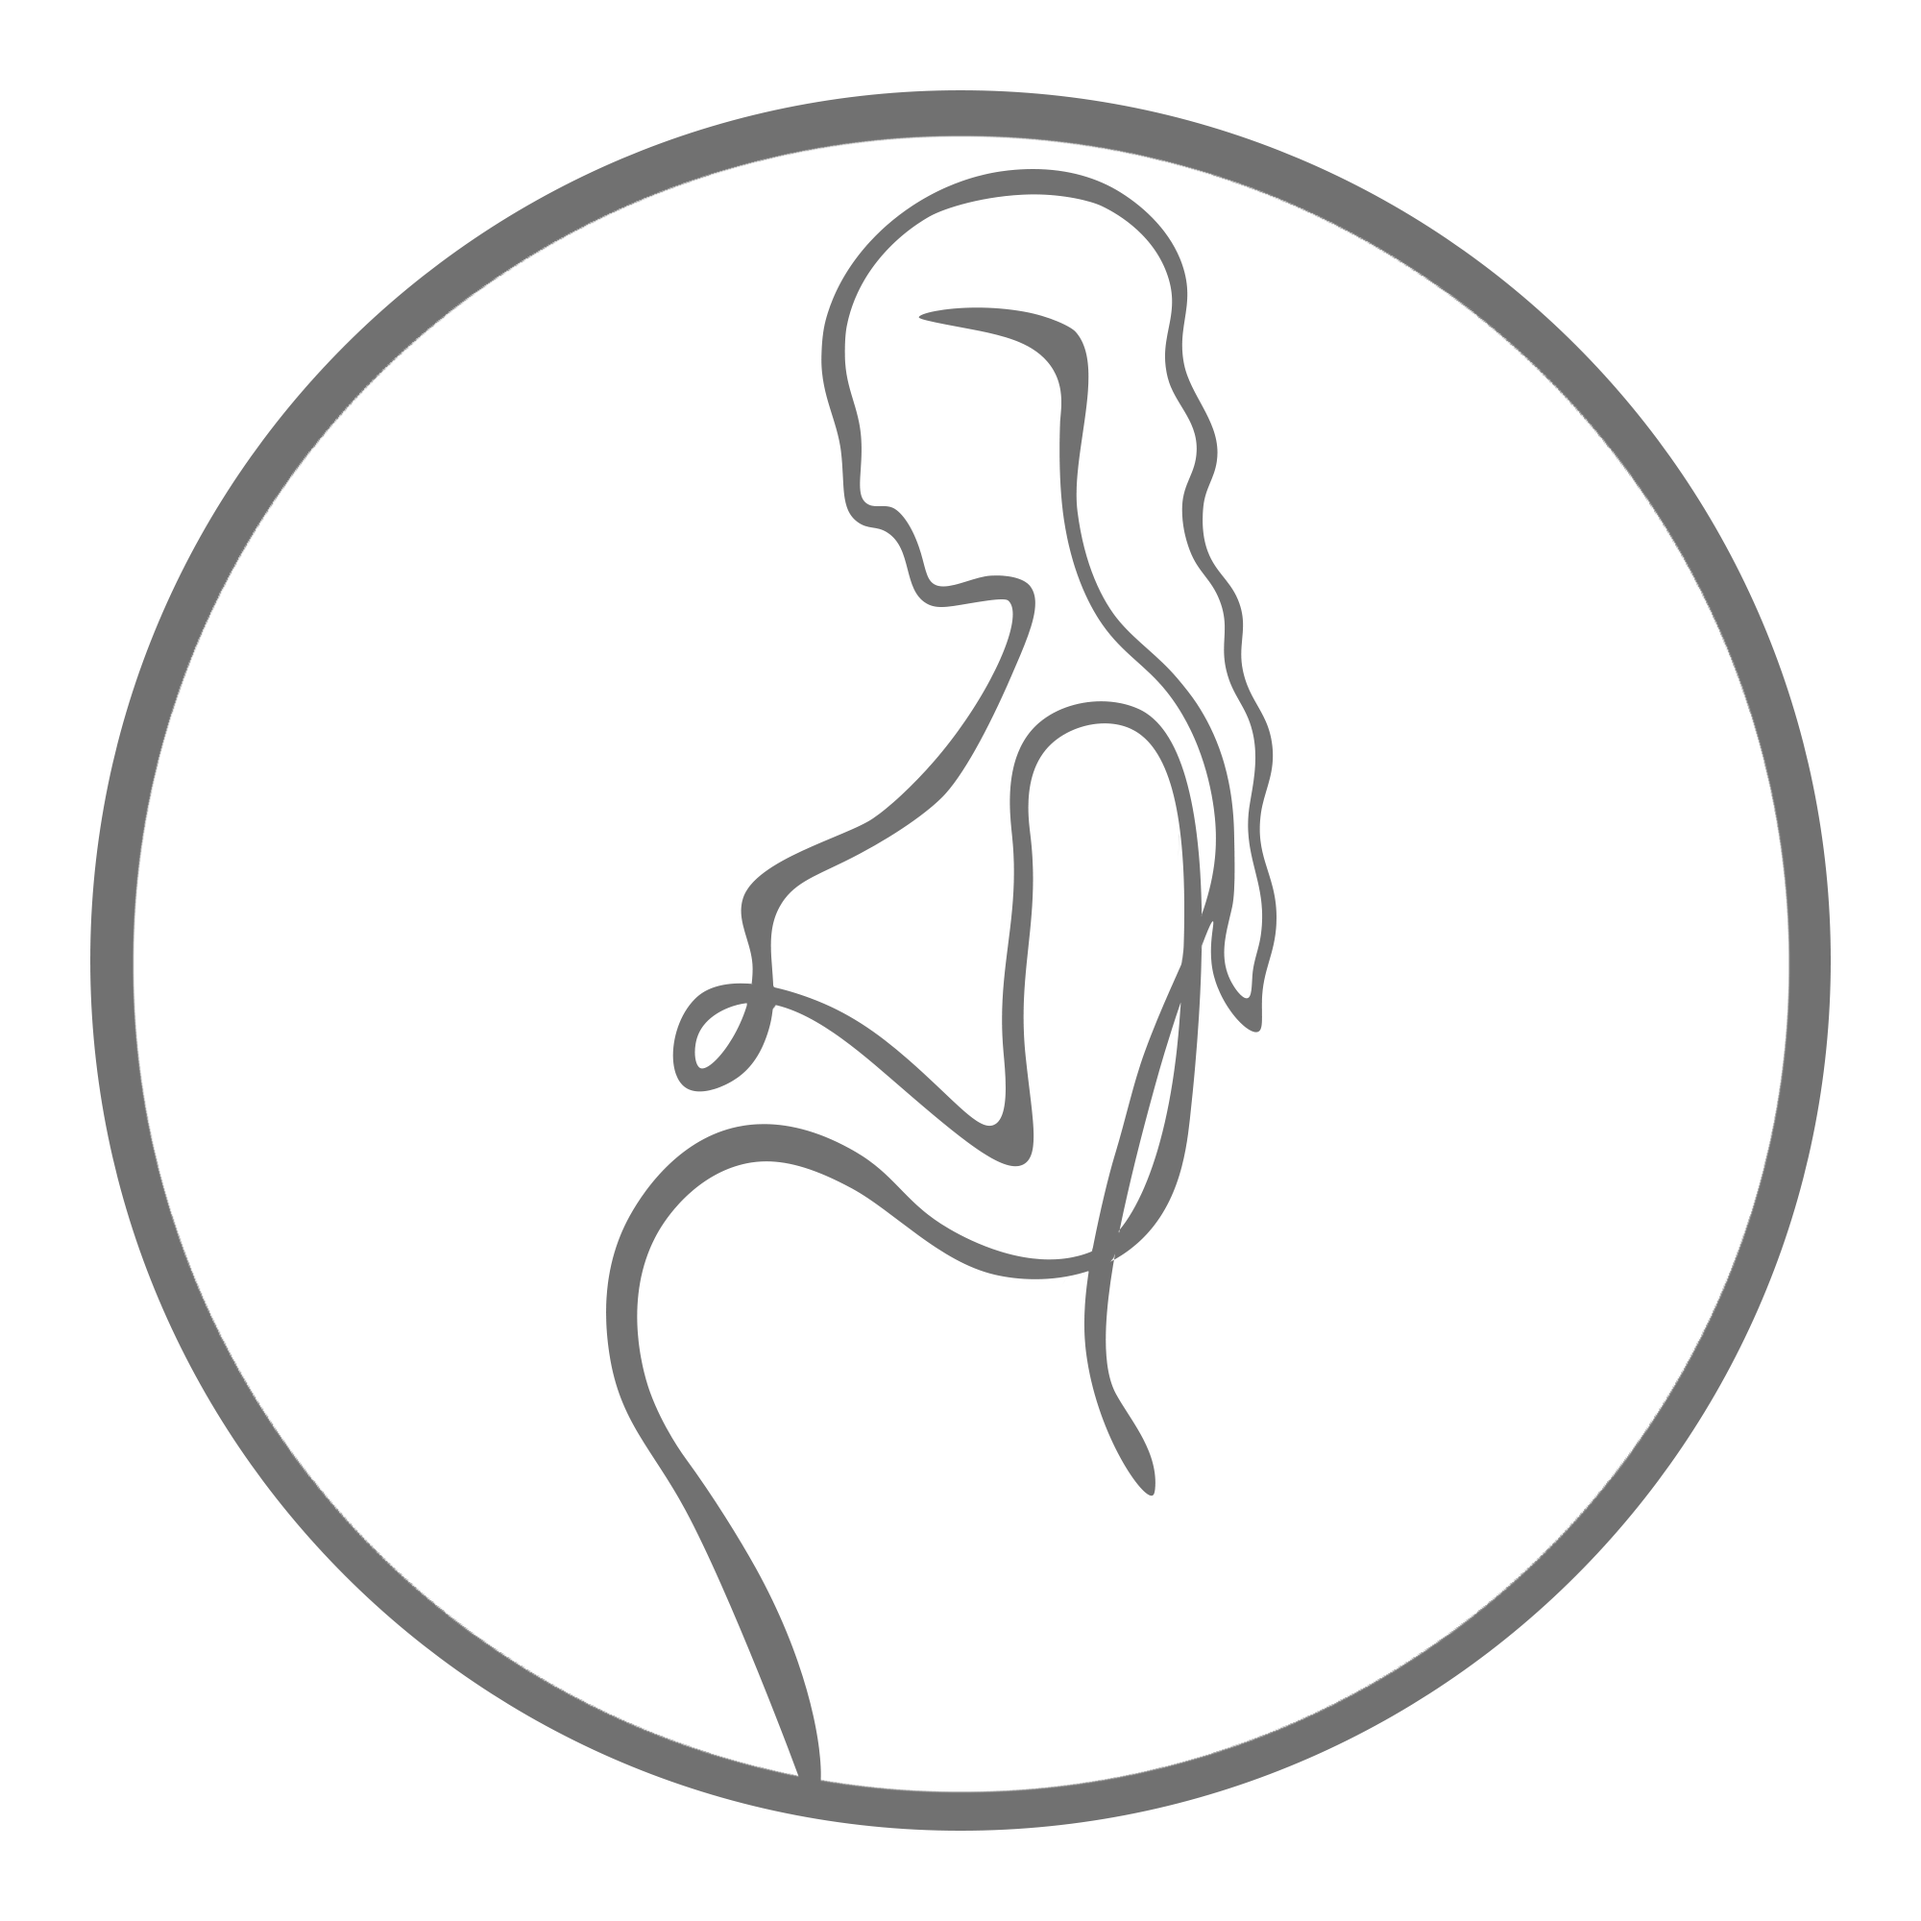
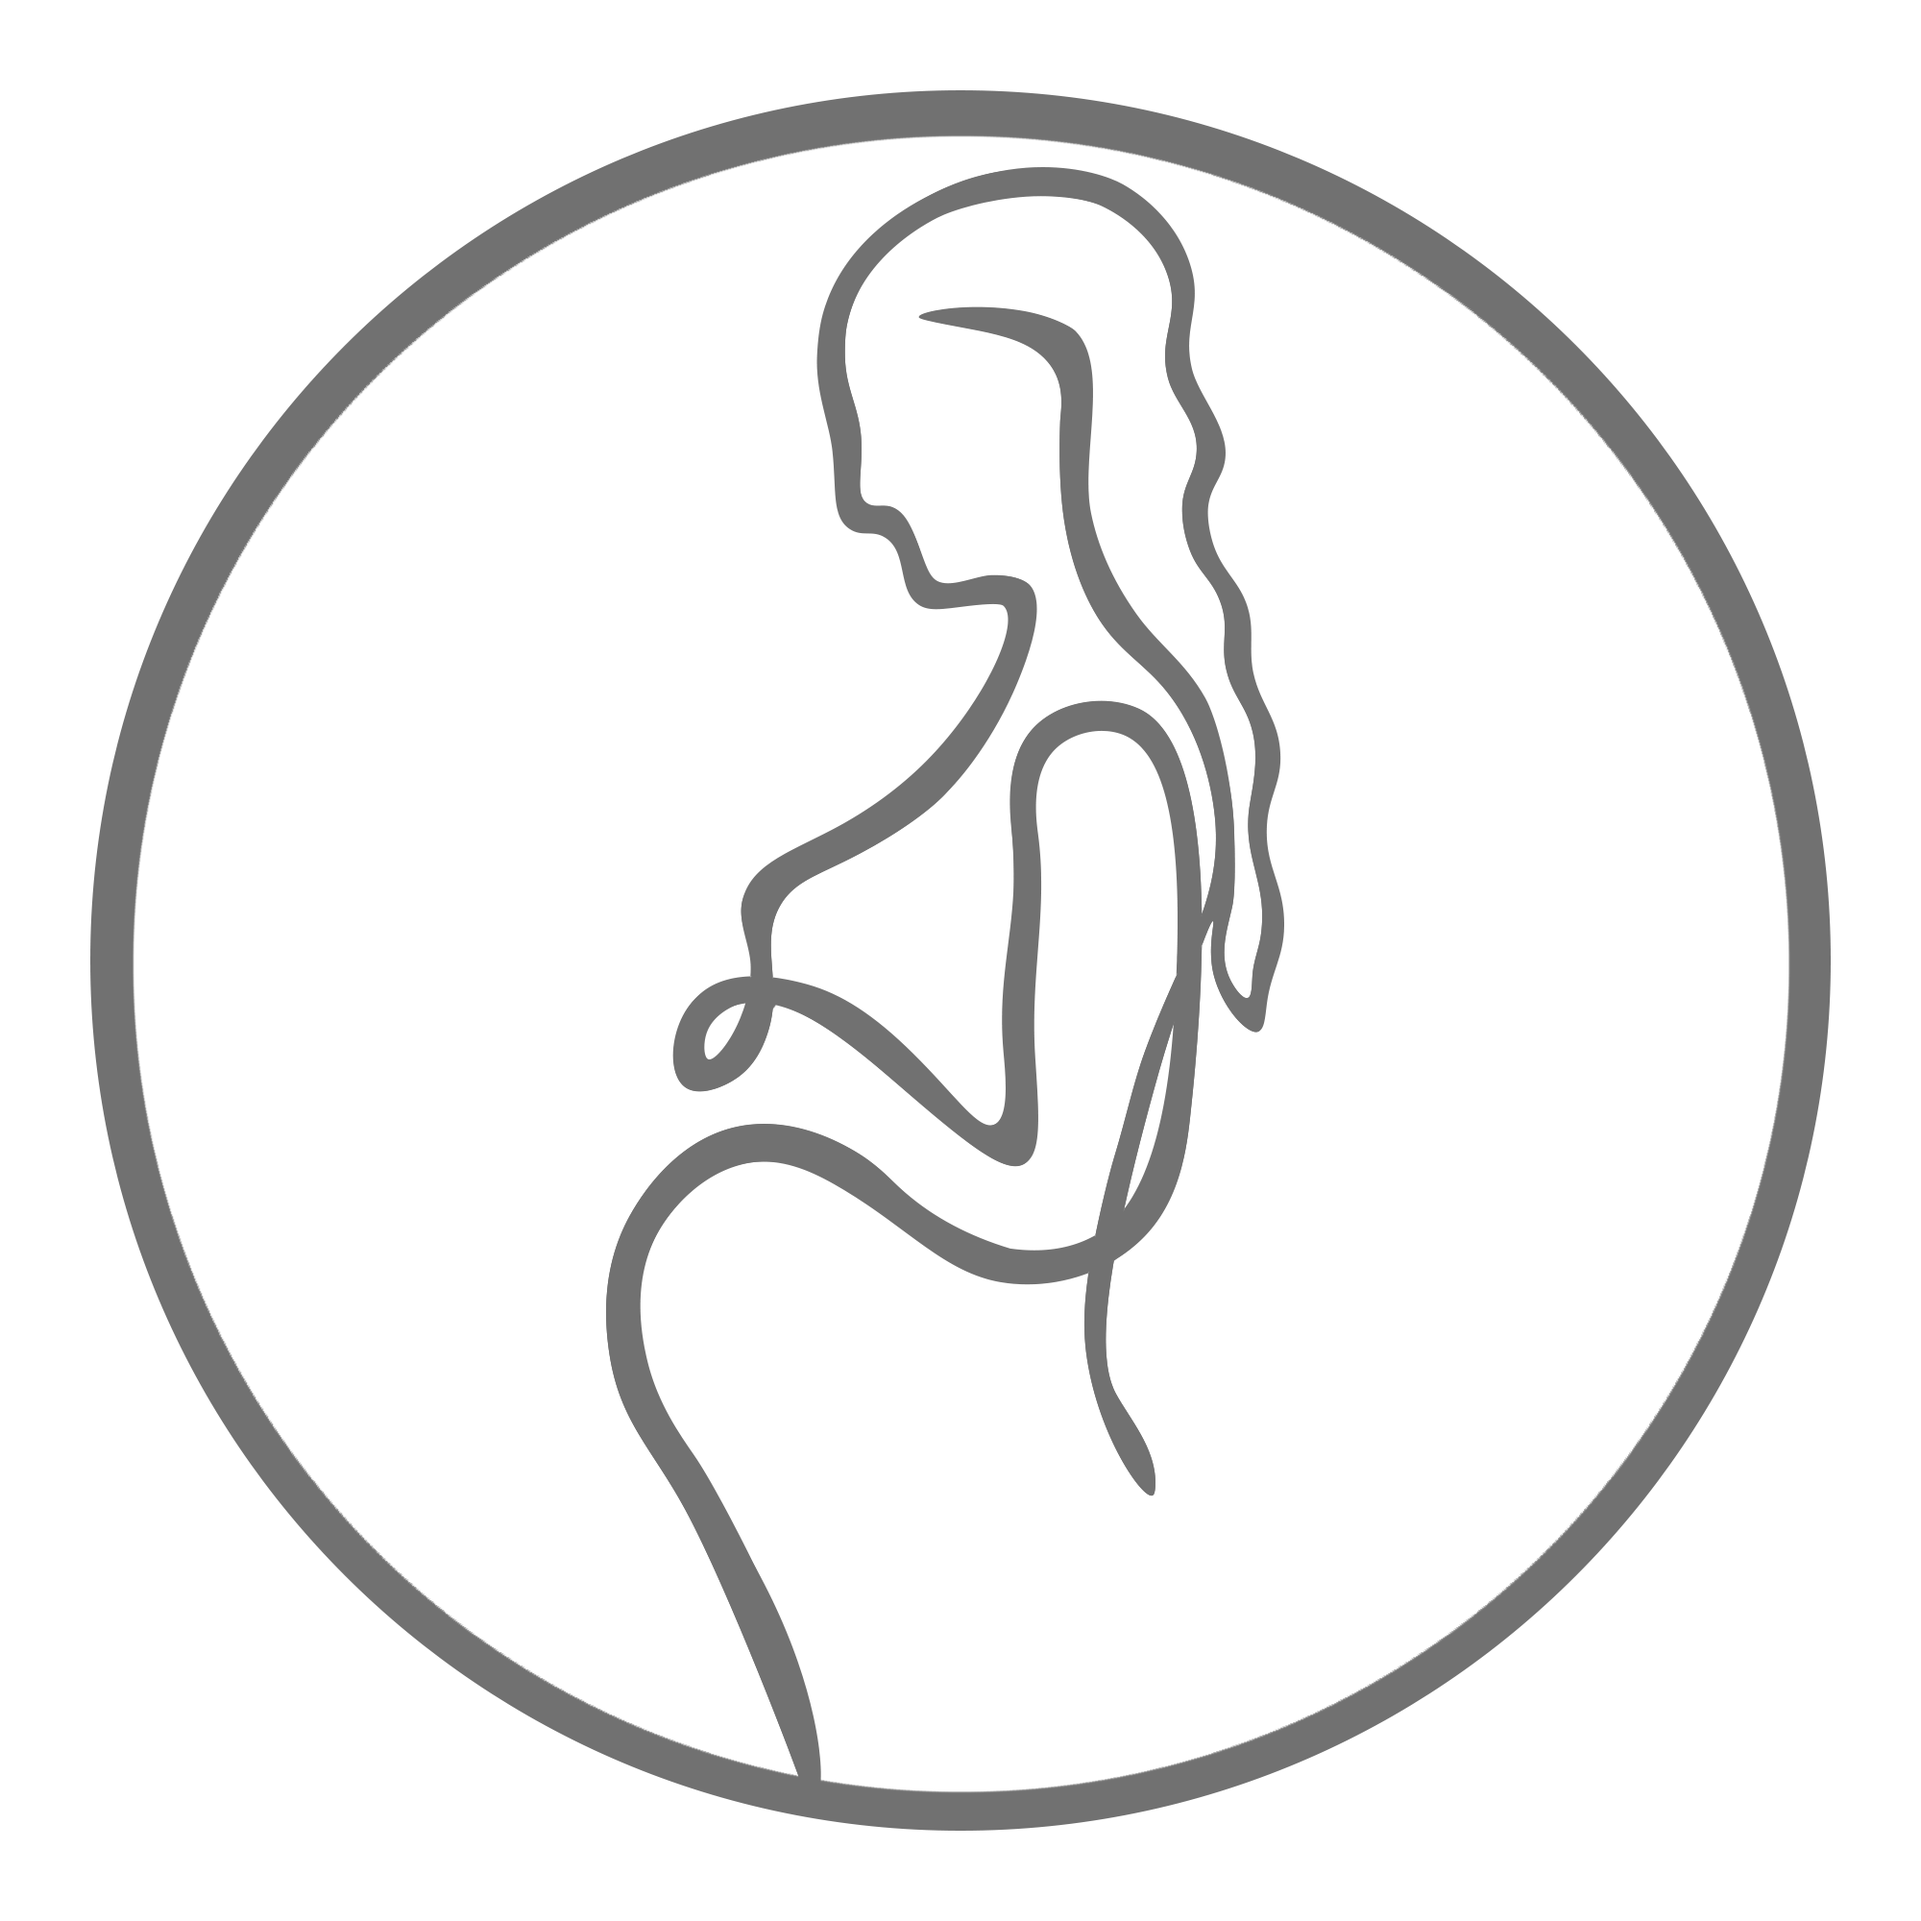
More service images and small changes

diff --git a/src/output.css b/src/output.css
@@ -265,9 +265,6 @@
   .top-0 {
     top: calc(var(--spacing) * 0);
   }
-  .top-1 {
-    top: calc(var(--spacing) * 1);
-  }
   .top-1\/2 {
     top: calc(1/2 * 100%);
   }
@@ -520,17 +517,11 @@
   .h-40 {
     height: calc(var(--spacing) * 40);
   }
-  .h-48 {
-    height: calc(var(--spacing) * 48);
-  }
   .h-64 {
     height: calc(var(--spacing) * 64);
   }
   .h-200 {
     height: calc(var(--spacing) * 200);
-  }
-  .h-480 {
-    height: calc(var(--spacing) * 480);
   }
   .h-auto {
     height: auto;
@@ -547,14 +538,8 @@
   .max-h-screen {
     max-height: 100vh;
   }
-  .min-h-\[10rem\] {
-    min-height: 10rem;
-  }
   .min-h-screen {
     min-height: 100vh;
-  }
-  .w-1 {
-    width: calc(var(--spacing) * 1);
   }
   .w-1\/2 {
     width: calc(1/2 * 100%);
@@ -562,20 +547,8 @@
   .w-8 {
     width: calc(var(--spacing) * 8);
   }
-  .w-12 {
-    width: calc(var(--spacing) * 12);
-  }
-  .w-24 {
-    width: calc(var(--spacing) * 24);
-  }
-  .w-30 {
-    width: calc(var(--spacing) * 30);
-  }
   .w-40 {
     width: calc(var(--spacing) * 40);
-  }
-  .w-48 {
-    width: calc(var(--spacing) * 48);
   }
   .w-50 {
     width: calc(var(--spacing) * 50);
@@ -583,17 +556,8 @@
   .w-64 {
     width: calc(var(--spacing) * 64);
   }
-  .w-80 {
-    width: calc(var(--spacing) * 80);
-  }
   .w-200 {
     width: calc(var(--spacing) * 200);
-  }
-  .w-480 {
-    width: calc(var(--spacing) * 480);
-  }
-  .w-fit {
-    width: fit-content;
   }
   .w-full {
     width: 100%;
@@ -606,9 +570,6 @@
   }
   .max-w-3xl {
     max-width: var(--container-3xl);
-  }
-  .max-w-64 {
-    max-width: calc(var(--spacing) * 64);
   }
   .max-w-md {
     max-width: var(--container-md);
@@ -705,10 +666,6 @@
   .translate-full {
     --tw-translate-x: 100%;
     --tw-translate-y: 100%;
-    translate: var(--tw-translate-x) var(--tw-translate-y);
-  }
-  .-translate-y-1 {
-    --tw-translate-y: calc(var(--spacing) * -1);
     translate: var(--tw-translate-x) var(--tw-translate-y);
   }
   .-translate-y-1\/2 {
@@ -1025,12 +982,6 @@
   .gap-4 {
     gap: calc(var(--spacing) * 4);
   }
-  .gap-8 {
-    gap: calc(var(--spacing) * 8);
-  }
-  .gap-16 {
-    gap: calc(var(--spacing) * 16);
-  }
   .gap-25 {
     gap: calc(var(--spacing) * 25);
   }
@@ -1039,13 +990,6 @@
       --tw-space-y-reverse: 0;
       margin-block-start: calc(calc(var(--spacing) * 4) * var(--tw-space-y-reverse));
       margin-block-end: calc(calc(var(--spacing) * 4) * calc(1 - var(--tw-space-y-reverse)));
-    }
-  }
-  .space-y-6 {
-    :where(& > :not(:last-child)) {
-      --tw-space-y-reverse: 0;
-      margin-block-start: calc(calc(var(--spacing) * 6) * var(--tw-space-y-reverse));
-      margin-block-end: calc(calc(var(--spacing) * 6) * calc(1 - var(--tw-space-y-reverse)));
     }
   }
   .space-y-reverse {
@@ -1354,9 +1298,6 @@
   .bg-\[url\(\/images\/Image00006\.jpg\)\] {
     background-image: url(/images/Image00006.jpg);
   }
-  .bg-\[url\(\/images\/image11\.jpg\)\] {
-    background-image: url(/images/image11.jpg);
-  }
   .bg-\[url\(\/images\/image12\.jpg\)\] {
     background-image: url(/images/image12.jpg);
   }
@@ -1547,9 +1488,6 @@
   .px-16 {
     padding-inline: calc(var(--spacing) * 16);
   }
-  .py-2 {
-    padding-block: calc(var(--spacing) * 2);
-  }
   .py-3 {
     padding-block: calc(var(--spacing) * 3);
   }
@@ -1564,9 +1502,6 @@
   }
   .pt-10 {
     padding-top: calc(var(--spacing) * 10);
-  }
-  .pt-12 {
-    padding-top: calc(var(--spacing) * 12);
   }
   .pt-20 {
     padding-top: calc(var(--spacing) * 20);
@@ -2058,10 +1993,6 @@
   .transition-normal {
     transition-behavior: normal;
   }
-  .duration-1000 {
-    --tw-duration: 1000ms;
-    transition-duration: 1000ms;
-  }
   .duration-2000 {
     --tw-duration: 2000ms;
     transition-duration: 2000ms;
@@ -2069,14 +2000,6 @@
   .duration-3000 {
     --tw-duration: 3000ms;
     transition-duration: 3000ms;
-  }
-  .duration-4000 {
-    --tw-duration: 4000ms;
-    transition-duration: 4000ms;
-  }
-  .duration-9000 {
-    --tw-duration: 9000ms;
-    transition-duration: 9000ms;
   }
   .ease-in {
     --tw-ease: var(--ease-in);
@@ -2320,11 +2243,6 @@
       box-shadow: var(--tw-inset-shadow), var(--tw-inset-ring-shadow), var(--tw-ring-offset-shadow), var(--tw-ring-shadow), var(--tw-shadow);
     }
   }
-  .focus\:ring-colblue {
-    &:focus {
-      --tw-ring-color: var(--color-colblue);
-    }
-  }
   .focus\:ring-offblack {
     &:focus {
       --tw-ring-color: var(--color-offblack);
@@ -2391,11 +2309,6 @@
       width: 25rem;
     }
   }
-  .md\:w-\[50rem\] {
-    @media (width >= 48rem) {
-      width: 50rem;
-    }
-  }
   .md\:w-auto {
     @media (width >= 48rem) {
       width: auto;
@@ -2444,15 +2357,6 @@
       }
     }
   }
-  .md\:space-x-12 {
-    @media (width >= 48rem) {
-      :where(& > :not(:last-child)) {
-        --tw-space-x-reverse: 0;
-        margin-inline-start: calc(calc(var(--spacing) * 12) * var(--tw-space-x-reverse));
-        margin-inline-end: calc(calc(var(--spacing) * 12) * calc(1 - var(--tw-space-x-reverse)));
-      }
-    }
-  }
   .md\:px-16 {
     @media (width >= 48rem) {
       padding-inline: calc(var(--spacing) * 16);
@@ -2490,24 +2394,9 @@
       height: 20rem;
     }
   }
-  .\32 xl\:h-\[28rem\] {
-    @media (width >= 96rem) {
-      height: 28rem;
-    }
-  }
   .\32 xl\:w-\[35rem\] {
     @media (width >= 96rem) {
       width: 35rem;
-    }
-  }
-  .\32 xl\:w-\[40rem\] {
-    @media (width >= 96rem) {
-      width: 40rem;
-    }
-  }
-  .\32 xl\:w-\[44rem\] {
-    @media (width >= 96rem) {
-      width: 44rem;
     }
   }
   .dark\:text-white {

diff --git a/index.html b/index.html
@@ -99,19 +99,19 @@
                 <p>Φυσιολογικός Τοκετός </p>
             </div>
             <div class="grid place-items-center w-50">
-                <img src="/images/service-FT.png" class="h-20 w-max cursor-pointer">
+                <img src="/images/service-EX.png" class="h-20 w-max cursor-pointer">
                 <p>Ενδοσκοπική Χειρουργική (Υστεροσκόπηση & Λαπαροσκόπηση & Ρομποτική Χειρουργική - Davinci) </p>
             </div>
             <div class="grid place-items-center w-50">
-                <img src="/images/service-FT.png" class="h-20 w-max cursor-pointer">
+                <img src="/images/service-GO.png" class="h-20 w-max cursor-pointer">
                 <p>Γυναικολογική Ογκολογία (Κολποσκόπηση – Βιοψία τραχήλου)</p>
             </div>
             <div class="grid place-items-center w-50">
-                <img src="/images/service-FT.png" class="h-20 w-max cursor-pointer">
+                <img src="/images/service-DY.png" class="h-20 w-max cursor-pointer">
                 <p>Διερεύνηση Υπογονιμότητας</p>
             </div>
             <div class="grid place-items-center w-50">
-                <img src="/images/service-FT.png" class="h-20 w-max cursor-pointer">
+                <img src="/images/service-PEG.png" class="h-20 w-max cursor-pointer">
                 <p>Παιδική και Εφηβική Γυναικολογία</p>
             </div>
             <div class="grid place-items-center w-50">
